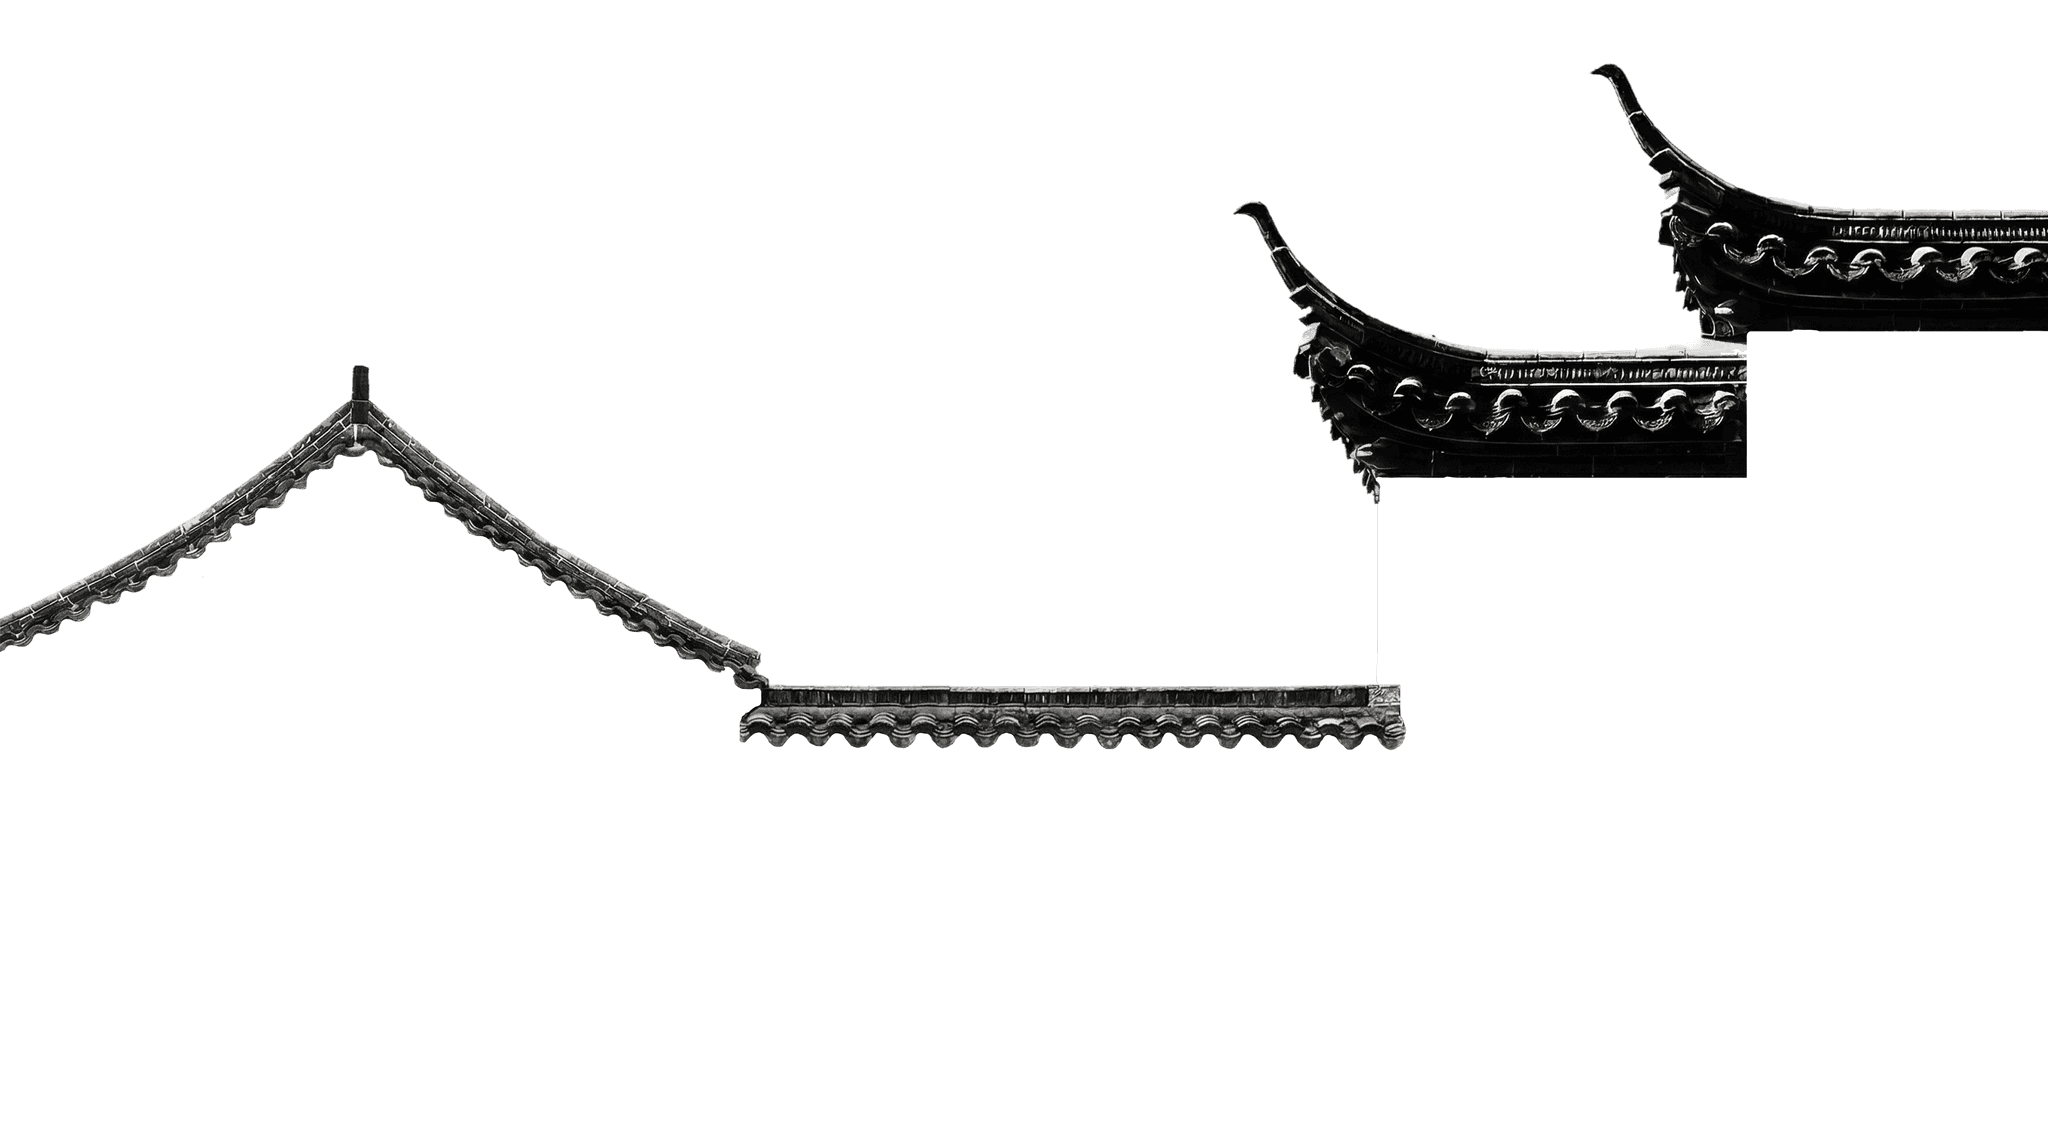
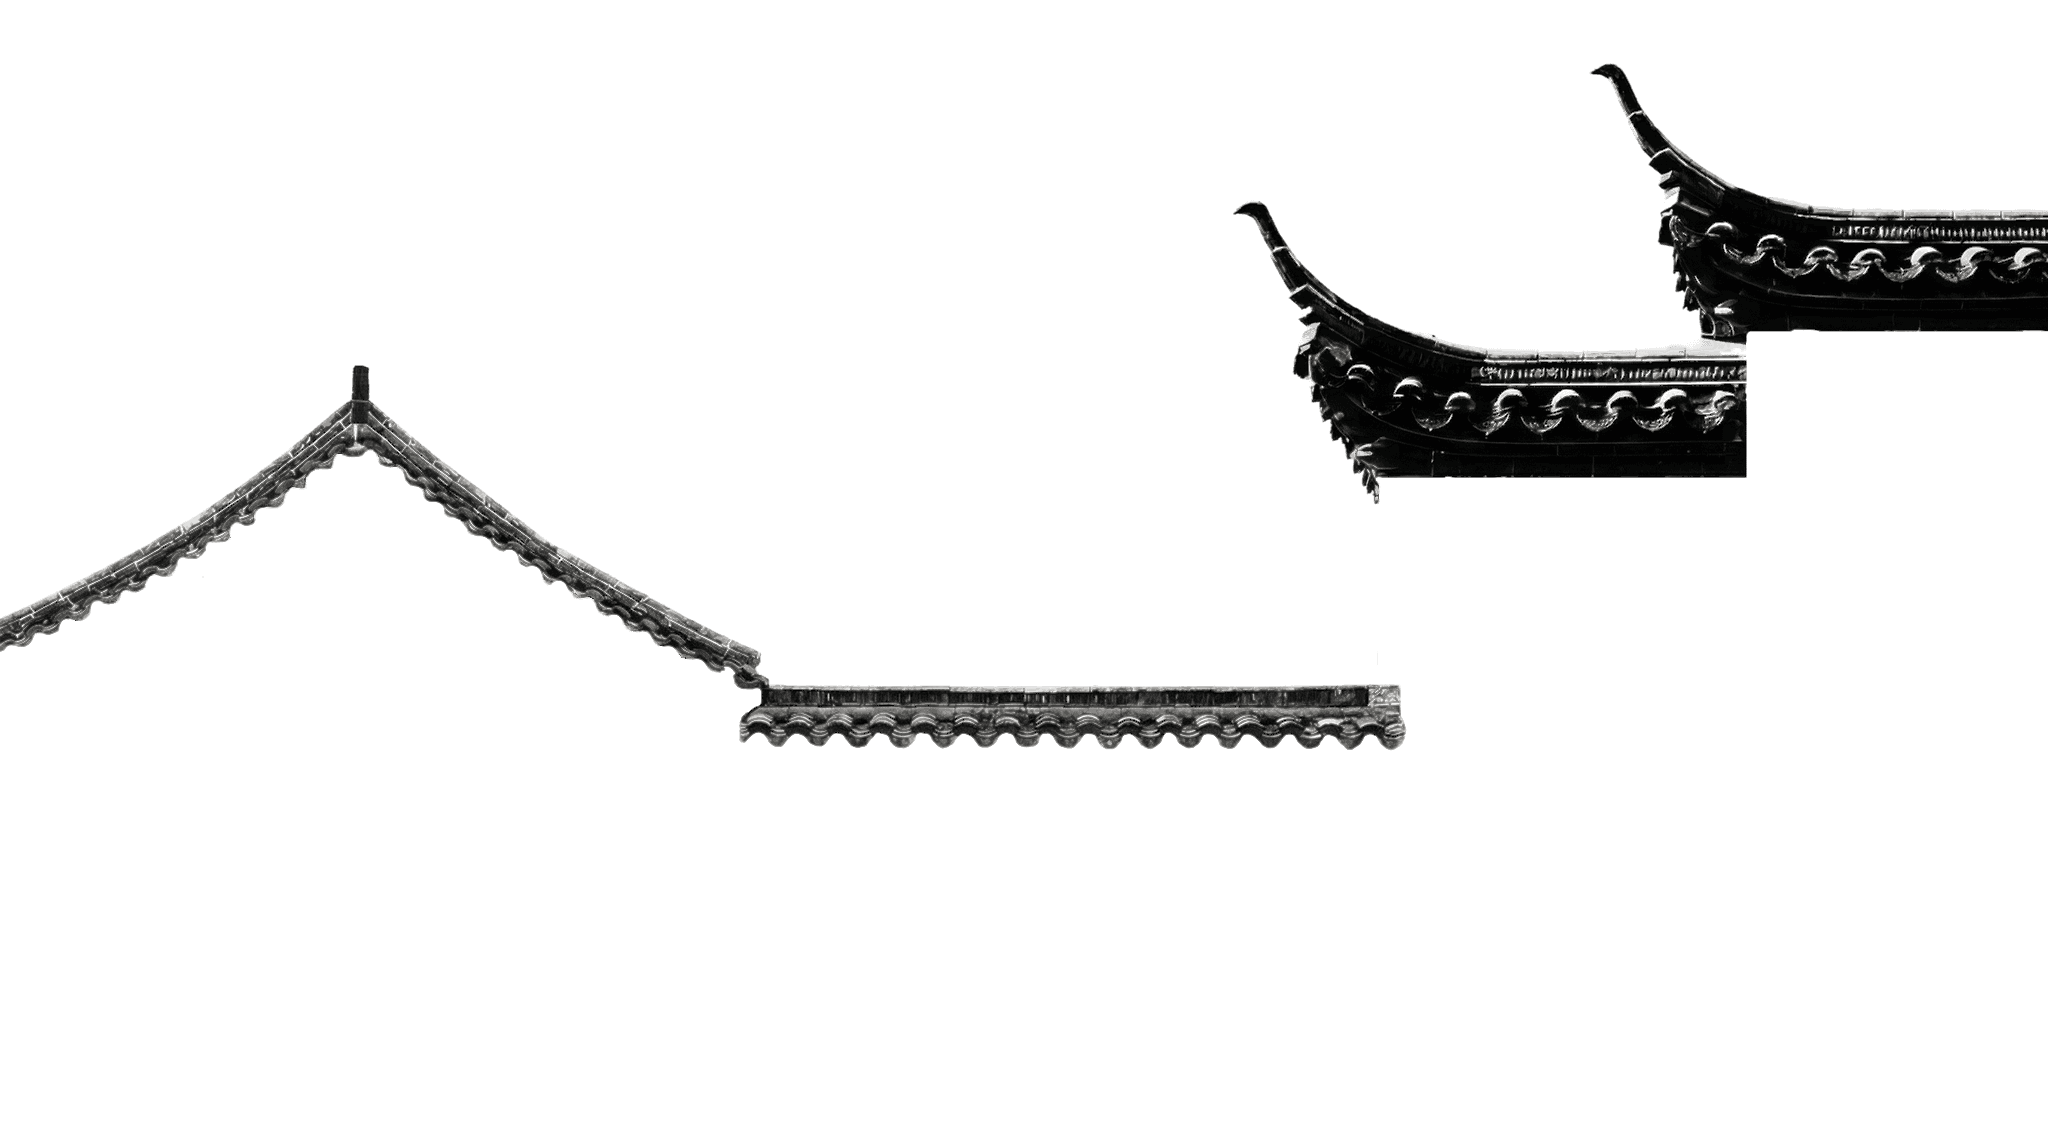
Roofline: kill the tablet/phone seam line, tile the collage on tablets
Three stacked causes behind "a line hangs below the eaves" (owner report,
tablet portrait):

1. The roof PNGs' white-panel edges carried grey anti-aliased columns
   (e.g. rgba(221,221,221,170) at x=670 of roof-piece-b) — invisible at
   desktop scale 1.0, but rendered as a grey hairline over the piece
   behind once the browser downscales (0.5x tablet, 0.38x phone).
   Recolored every semi-transparent edge pixel that reads darker than its
   opaque body to the body's colour (alpha untouched), plus a defringe
   pass that bleeds edge colours into the transparent neighbourhood so
   scaling never mixes content with black-transparent. Pixel-identical at
   scale 1; originals in assets-backup/roof-pre-defringe/.

2. Tablet widths (741-1239) rendered the desktop collage, which was
   measured at 1440 and mis-tiles on narrower shells — new breakpoint
   restates the same composition in vw so it scales as one piece.

3. Phone geometry butted piece pairs at exactly 0px (a/b at 226, c/d at
   790) — fractional-DPR rounding could open the joint and let the night
   sky through. Pieces b/d now paint a 2px overlap under their partner
   (same clip-path treatment the desktop a/b joint already had).

diff --git a/app/globals.css b/app/globals.css
@@ -2800,10 +2800,49 @@ body.hero-night .nav-links a.active {
   height: 1062px;
 }
 .roof-d {
-  left: calc(50% - 418px);
+  /* same treatment as roof-b: overlap piece C by 2px and clip the artwork's
+     anti-aliased left column, so no night-sky hairline can open at the joint */
+  left: calc(50% - 421px);
   top: 369px;
   width: 1902px;
   height: 1062px;
+  clip-path: inset(0 0 0 2px);
+}
+
+/* Tablet portrait (741–1239): the desktop collage above was measured at 1440
+   and its fixed-px pieces mis-tile on narrower shells (white gables floating
+   in the sky, seam lines mid-screen — owner report, iPad portrait 2026-07-10).
+   Same composition, expressed in vw (px ÷ 14.40), so it scales as one piece.
+   The b/d lefts sit ~0.4vw further left than the pure conversion: paint
+   overlap at the joints so rounding can never open a hairline. */
+@media (min-width: 741px) and (max-width: 1239px) {
+  .home-roof-transition {
+    height: calc(117.15vw - 40vh);
+  }
+  .roof-a {
+    left: calc(50% - 102.85vw);
+    top: 1.18vw;
+    width: 133.89vw;
+    height: 74.72vw;
+  }
+  .roof-b {
+    left: calc(50% + 30.35vw);
+    top: 1.18vw;
+    width: 133.89vw;
+    height: 74.72vw;
+  }
+  .roof-c {
+    left: calc(50% - 161.11vw);
+    top: 25.69vw;
+    width: 132.15vw;
+    height: 73.75vw;
+  }
+  .roof-d {
+    left: calc(50% - 29.51vw);
+    top: 25.63vw;
+    width: 132.08vw;
+    height: 73.68vw;
+  }
 }
 
 .home-koi-section {
@@ -2840,7 +2879,10 @@ body.hero-night .nav-links a.active {
     height: 414px;
   }
   .roof-b {
-    left: 226px;
+    /* 4px left of the butt-fit (226): with the 2px edge clip this paints a
+       2px overlap under piece A — a 0-overlap butt joint let the night sky
+       through as a vertical hairline at fractional DPRs (owner report) */
+    left: 222px;
     top: 339px;
     width: 742px;
     height: 414px;
@@ -2852,7 +2894,8 @@ body.hero-night .nav-links a.active {
     height: 456px;
   }
   .roof-d {
-    left: 790px;
+    /* same 2px paint overlap against piece C (butt-fit was 790) */
+    left: 786px;
     top: 500px;
     width: 816px;
     height: 455px;
